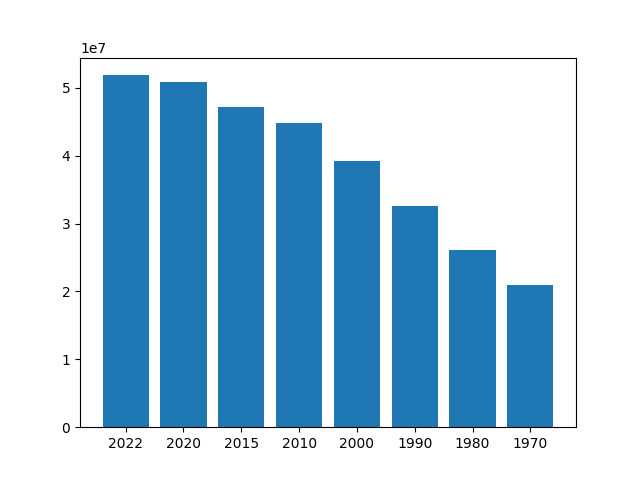
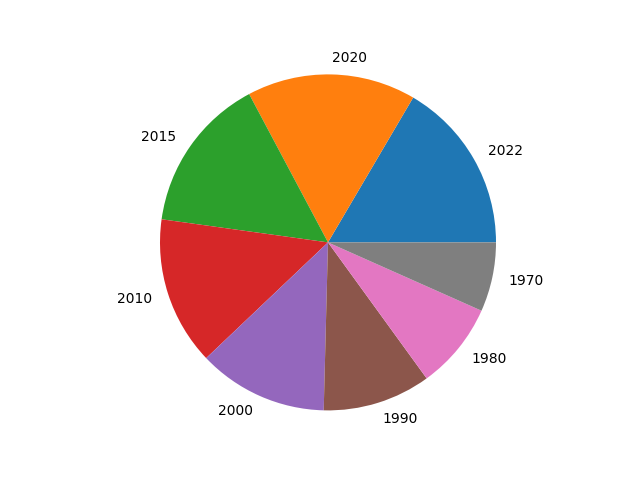
Proyecto de estudiantes en el mundo desde el año 2000

diff --git a/student_demograpic_chart.py b/student_demograpic_chart.py
@@ -1,0 +1,15 @@
+import student_demografic_app.utils_students as utils_students
+import app.read_csv
+import app.charts as charts
+
+# Run chart
+
+def run_chart():
+    # Load data into dataframes
+    data = app.read_csv.read_csv('./student_demografic_app/academic.csv')
+    labels, values = utils_students.get_students_by_year(data)
+    charts.generate_pie_chart("Students Demographical By Year", labels, values)
+    
+        
+if __name__ == '__main__':
+    run_chart()

diff --git a/app/utils.py b/app/utils.py
@@ -18,6 +18,14 @@ def get_population_by_country(country):
     values = population_dic.values()
     return labels,values
 
+def get_population_in_world(data):
+    labels = []
+    values = []
+    for country in data:
+        labels.append(country['Country/Territory'])
+        values.append(float(country['World Population Percentage']))
+    return labels,values
+
 
 
 def population_by_country(data,country):

diff --git a/app/world_population_chart.py b/app/world_population_chart.py
@@ -1,0 +1,14 @@
+import utils
+import read_csv
+import charts
+
+
+def run_chart():
+    # Load data into dataframes
+    data = read_csv.read_csv('./app/world_population.csv')
+    labels, values = utils.get_population_in_world(data)
+    charts.generate_pie_chart("World Population", labels, values)
+    
+        
+if __name__ == '__main__':
+    run_chart()

diff --git a/student_demografic_app/utils_students.py b/student_demografic_app/utils_students.py
@@ -1,0 +1,12 @@
+def get_students_by_year(data):
+    labels = []
+    values = []
+    for students in data:
+        year_label = students['year'][:4]
+        year = int(year_label)
+        if year >= 2000:
+            labels.append(year_label)
+            values.append(float(students['students']))
+    return labels,values
+
+

diff --git a/app/read_csv.py b/app/read_csv.py
@@ -1,5 +1,7 @@
 import csv
 
+#https://www.kaggle.com/
+
 def read_csv(filename):
     with open(filename, 'r') as f:
         reader = csv.reader(f, delimiter=',')
